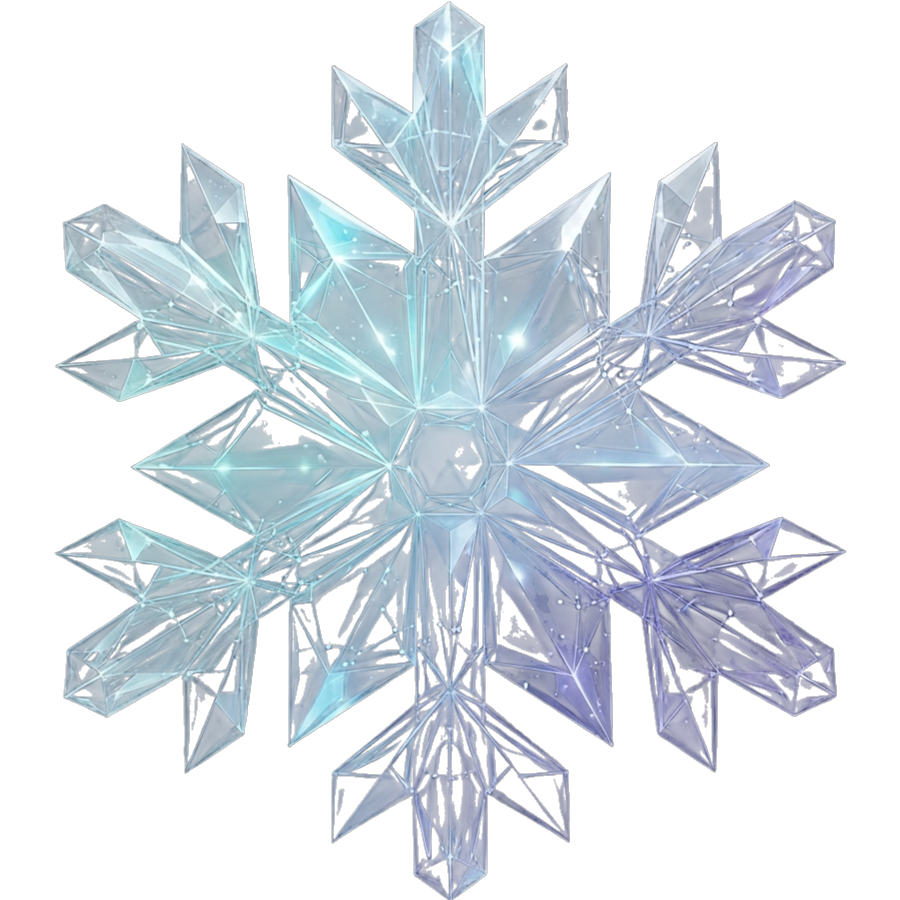
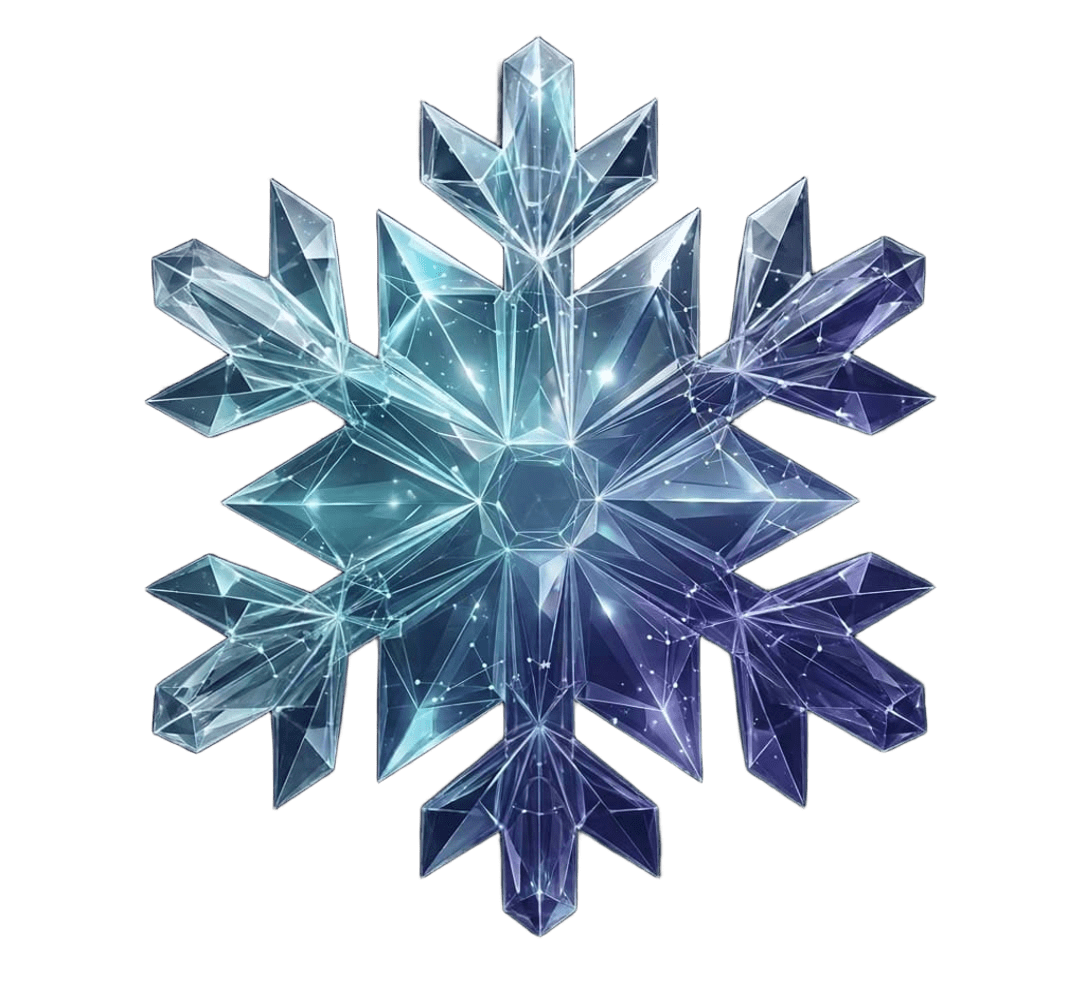
усе

diff --git a/src/index.css b/src/index.css
@@ -265,20 +265,20 @@
     position: absolute;
     left: 50%;
     top: 100%;
-    width: clamp(9rem, 28vw, 22rem);
+    width: clamp(18rem, 40vw, 32rem);
     height: auto;
-    transform: translate(-50%, -32%);
-    opacity: 0.8;
-    filter: drop-shadow(0 0 45px rgba(190, 220, 250, 0.32))
-      drop-shadow(0 0 90px rgba(175, 195, 220, 0.22));
+    transform: translate(-50%, -34%);
+    opacity: 0.85;
+    filter: drop-shadow(0 0 60px rgba(190, 220, 250, 0.38))
+      drop-shadow(0 0 110px rgba(175, 195, 220, 0.26));
     pointer-events: none;
     z-index: 10;
     animation: hero-float 7s ease-in-out infinite;
   }
 
   @keyframes hero-float {
-    0%, 100% { transform: translate(-50%, -32%); }
-    50% { transform: translate(-50%, -38%); }
+    0%, 100% { transform: translate(-50%, -34%); }
+    50% { transform: translate(-50%, -40%); }
   }
 
   .hero-space-photo {
@@ -1034,7 +1034,6 @@
   overflow-x: hidden;
   display: flex;
   flex-direction: column;
-  gap: 1rem;
   background: rgba(8, 14, 24, 0.5);
   scrollbar-width: thin;
   scrollbar-color: rgba(228, 236, 244, 0.2) transparent;
@@ -1052,6 +1051,8 @@
   width: 100%;
   flex-shrink: 0;
   flex-grow: 0;
+  position: relative;
+  min-height: 180px;
 }
 
 .case-modal-image-wrapper img {
@@ -1060,6 +1061,62 @@
   height: auto;
   max-width: 100%;
   object-fit: contain;
+  opacity: 0;
+  transition: opacity 0.3s ease;
+}
+
+.case-modal-image-wrapper img.is-loaded {
+  opacity: 1;
+}
+
+.case-modal-image-spinner {
+  position: absolute;
+  inset: 0;
+  display: flex;
+  align-items: center;
+  justify-content: center;
+  background: linear-gradient(
+    120deg,
+    rgba(228, 236, 244, 0.04) 0%,
+    rgba(228, 236, 244, 0.08) 50%,
+    rgba(228, 236, 244, 0.04) 100%
+  );
+  background-size: 200% 100%;
+  animation: case-modal-skeleton 1.6s ease-in-out infinite;
+  color: rgba(228, 236, 244, 0.55);
+  pointer-events: none;
+  z-index: 1;
+}
+
+.case-modal-image-spinner::after {
+  content: '';
+  width: 1.75rem;
+  height: 1.75rem;
+  border-radius: 50%;
+  border: 2px solid rgba(228, 236, 244, 0.15);
+  border-top-color: rgba(228, 236, 244, 0.9);
+  animation: case-modal-spin 0.9s linear infinite;
+}
+
+.case-modal-image-spinner[data-hidden='true'] {
+  opacity: 0;
+  visibility: hidden;
+  transition: opacity 0.25s ease, visibility 0s linear 0.25s;
+}
+
+@keyframes case-modal-spin {
+  to {
+    transform: rotate(360deg);
+  }
+}
+
+@keyframes case-modal-skeleton {
+  0% {
+    background-position: 200% 0;
+  }
+  100% {
+    background-position: -200% 0;
+  }
 }
 
 .case-modal-info::-webkit-scrollbar,
@@ -1095,14 +1152,22 @@
   }
 
   .case-modal-body {
-    grid-template-columns: 1fr;
+    display: flex;
+    flex-direction: column;
+    grid-template-columns: none;
     overflow-y: auto;
+    overflow-x: hidden;
+    -webkit-overflow-scrolling: touch;
   }
 
   .case-modal-info,
   .case-modal-gallery {
     overflow: visible;
+    min-height: auto;
+    flex-shrink: 0;
+    flex-grow: 0;
     border-right: none;
+    width: 100%;
   }
 
   .case-modal-info {

diff --git a/src/components/sections/ContactSection.tsx b/src/components/sections/ContactSection.tsx
@@ -140,15 +140,16 @@ ${message}`;
           </p>
         </motion.div>
 
-        <div className="grid lg:grid-cols-2 gap-[clamp(1.5rem,4vw,3rem)] w-full max-w-[clamp(20rem,95vw,72rem)] mx-auto">
+        <div className="grid lg:grid-cols-2 gap-[clamp(1.5rem,4vw,3rem)] w-full max-w-[clamp(20rem,95vw,72rem)] mx-auto items-stretch">
           {/* Contact Form */}
           <motion.div
             initial={{ opacity: 0, x: -30 }}
             whileInView={{ opacity: 1, x: 0 }}
             viewport={{ once: true }}
             transition={{ duration: 0.6 }}
+            className="h-full"
           >
-            <form onSubmit={handleSubmit} className="glass-card space-y-[clamp(0.75rem,1.5vw,1.25rem)] p-[clamp(1.25rem,3vw,2rem)]">
+            <form onSubmit={handleSubmit} className="glass-card space-y-[clamp(0.75rem,1.5vw,1.25rem)] p-[clamp(1.25rem,3vw,2rem)] h-full flex flex-col">
               <h3 className="font-semibold text-foreground mb-2 text-[clamp(1.05rem,1.6vw,1.35rem)]">{t('contact.form.submit')}</h3>
               
               <div>
@@ -198,11 +199,11 @@ ${message}`;
                 {errors.message && <p className="text-sm text-destructive mt-1">{errors.message}</p>}
               </div>
 
-              <Button 
-                type="submit" 
-                variant="hero" 
-                size="lg" 
-                className="w-full"
+              <Button
+                type="submit"
+                variant="hero"
+                size="lg"
+                className="w-full mt-auto"
                 disabled={isSubmitting}
               >
                 {isSubmitting ? '...' : t('contact.form.submit')}
@@ -217,7 +218,7 @@ ${message}`;
             whileInView={{ opacity: 1, x: 0 }}
             viewport={{ once: true }}
             transition={{ duration: 0.6 }}
-            className="space-y-[clamp(1rem,2vw,1.5rem)]"
+            className="h-full flex flex-col space-y-[clamp(1rem,2vw,1.5rem)]"
           >
             <div className="glass-card p-[clamp(1.25rem,3vw,2rem)]">
               <h3 className="font-semibold text-foreground mb-[clamp(0.75rem,1.5vw,1.25rem)] text-[clamp(1.05rem,1.6vw,1.35rem)]">{t('contact.messenger')}</h3>
@@ -241,10 +242,10 @@ ${message}`;
               </div>
             </div>
 
-            <div className="glass-card p-[clamp(1.25rem,3vw,2rem)]">
+            <div className="glass-card p-[clamp(1.25rem,3vw,2rem)] flex-1 flex flex-col">
               <h3 className="font-semibold text-foreground mb-[clamp(0.75rem,1.5vw,1.25rem)] text-[clamp(1.05rem,1.6vw,1.35rem)]">{t('nav.contacts')}</h3>
-              
-              <div className="space-y-[clamp(0.75rem,1.5vw,1rem)]">
+
+              <div className="space-y-[clamp(0.75rem,1.5vw,1rem)] flex-1 flex flex-col justify-center">
                 {contactInfo.map((item) => {
                   const Icon = item.icon;
                   return (

diff --git a/src/components/CaseModal.tsx b/src/components/CaseModal.tsx
@@ -1,8 +1,40 @@
-import { useEffect, useRef } from 'react';
+import { useEffect, useRef, useState } from 'react';
 import { motion, AnimatePresence } from 'framer-motion';
 import { X, ExternalLink } from 'lucide-react';
 import { useLanguage } from '@/contexts/LanguageContext';
 import type { CaseItem } from '@/data/casesData';
+
+type GalleryImageProps = {
+  src: string;
+  alt: string;
+};
+
+const GalleryImage = ({ src, alt }: GalleryImageProps) => {
+  const [loaded, setLoaded] = useState(false);
+
+  useEffect(() => {
+    setLoaded(false);
+  }, [src]);
+
+  return (
+    <figure className="case-modal-image-wrapper">
+      <span
+        className="case-modal-image-spinner"
+        data-hidden={loaded ? 'true' : 'false'}
+        aria-hidden="true"
+      />
+      <img
+        src={src}
+        alt={alt}
+        loading="lazy"
+        decoding="async"
+        className={loaded ? 'is-loaded' : ''}
+        onLoad={() => setLoaded(true)}
+        onError={() => setLoaded(true)}
+      />
+    </figure>
+  );
+};
 
 type CaseModalProps = {
   caseItem: CaseItem | null;
@@ -129,14 +161,11 @@ const CaseModal = ({ caseItem, open, onClose }: CaseModalProps) => {
 
               <div className="case-modal-gallery">
                 {caseItem.gallery.map((src, i) => (
-                  <figure key={src} className="case-modal-image-wrapper">
-                    <img
-                      src={src}
-                      alt={`${t(caseItem.titleKey)} — ${i + 1}`}
-                      loading="lazy"
-                      decoding="async"
-                    />
-                  </figure>
+                  <GalleryImage
+                    key={src}
+                    src={src}
+                    alt={`${t(caseItem.titleKey)} — ${i + 1}`}
+                  />
                 ))}
               </div>
             </div>

diff --git a/src/components/layout/Footer.tsx b/src/components/layout/Footer.tsx
@@ -43,7 +43,7 @@ const Footer = () => {
                   className="w-full h-full object-contain"
                 />
               </div>
-              <span className="text-xl font-bold text-foreground">SnowTEch</span>
+              <span className="text-xl font-bold text-foreground">SnowTech</span>
             </Link>
             <p className="text-sm text-muted-foreground mb-4">
               {t('footer.description')}
@@ -132,7 +132,7 @@ const Footer = () => {
 
         <div className="pt-8 border-t border-border flex flex-col md:flex-row justify-between items-center gap-4">
           <p className="text-sm text-muted-foreground">
-            © {currentYear} SnowTEch. {t('footer.rights')}
+            © 2024 SnowTech. {t('footer.rights')}
           </p>
         </div>
       </div>

diff --git a/src/components/sections/HeroSection.tsx b/src/components/sections/HeroSection.tsx
@@ -11,7 +11,7 @@ const HeroSection = () => {
     { value: '20+', label: t('hero.stats.projects') },
     { value: '3+', label: t('hero.stats.years') },
     { value: '20+', label: t('hero.stats.clients') },
-    { value: '99.9%', label: t('hero.stats.clients') },
+    { value: '99%', label: t('hero.stats.clients') },
   ];
 
   return (
